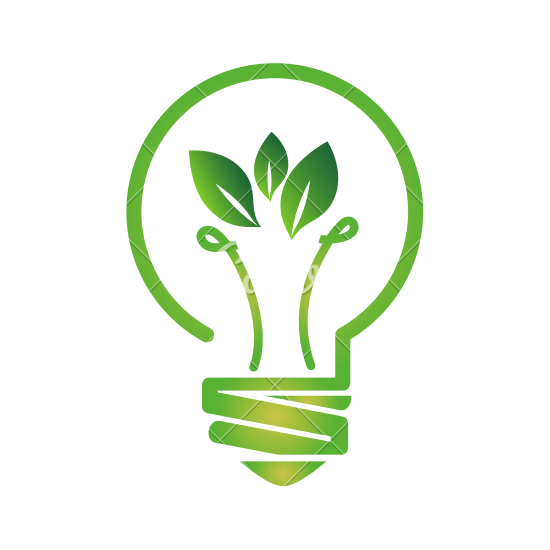
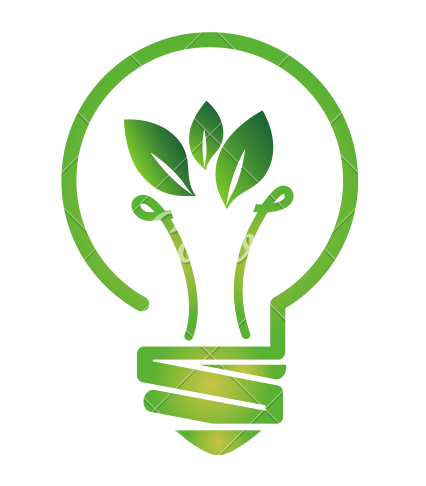
Add files via upload

Changed region(s): [[0.1221, 0.0617, 0.8545, 0.9568]]

diff --git a/sections/aboutPortal.html b/sections/aboutPortal.html
@@ -50,7 +50,7 @@
   <main class="content">
     <div class="about_portal_container">
       <div class="about_portal_image">
-        <img src="../images/pngwing.com (26).png" class="picture1">
+        <img src="../images/pngwing.com (29).png" class="picture1">
       </div>
       <div class="about_portal_text">
         <p><span class="bold">Портал бережливых инициатив</span> – это место где любой сотрудник регионального органа государственной власти
